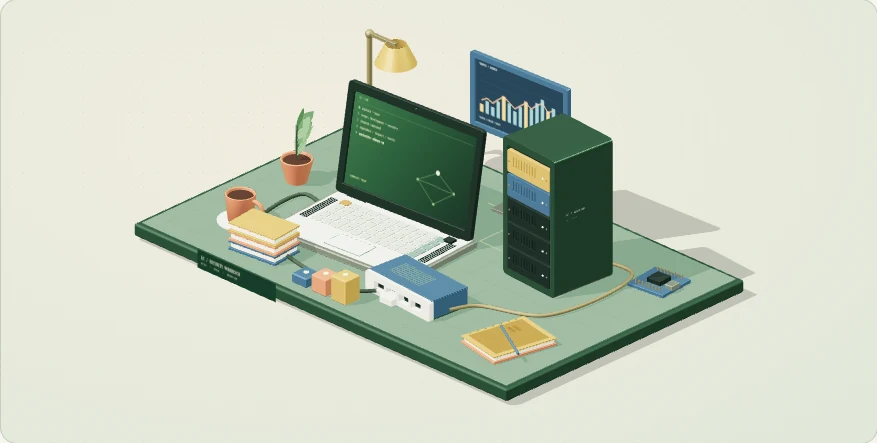
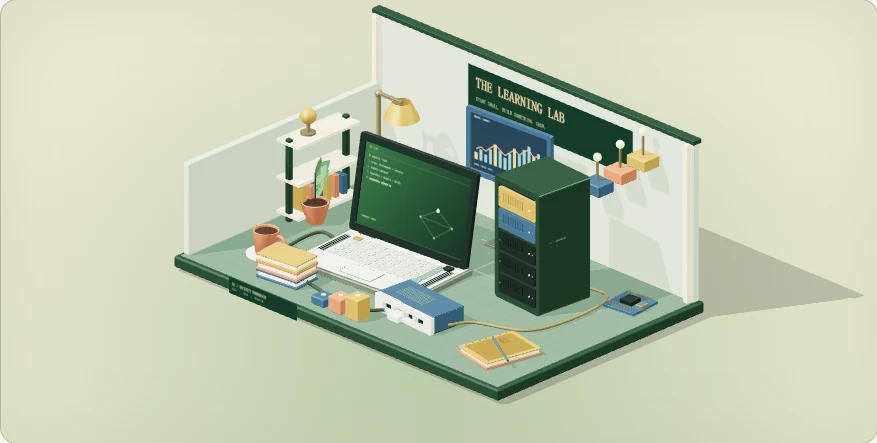
Rebuild the homepage as a miniature learning studio with illustrated chapter portals

diff --git a/index.html b/index.html
@@ -13,8 +13,8 @@
   <script src="roadmap-data.js" defer></script>
   <script src="learning-xp.js" defer></script>
   <link rel="stylesheet" href="motion.css?v=pointer2">
-  <link rel="stylesheet" href="home-3d.css?v=labboard5">
-  <script src="home-3d.js?v=labboard5" defer></script>
+  <link rel="stylesheet" href="home-3d.css?v=studio6">
+  <script src="home-3d.js?v=studio6" defer></script>
 </head>
 <body class="motion-site page-home">
   <a class="skip" href="#main">跳到正文</a>
@@ -36,43 +36,16 @@
         <div class="tool-ribbon" aria-label="探索方向"><span><b>&lt;/&gt;</b> CODE</span><span><b>⌘</b> SECURITY</span><span><b>✳</b> AI</span></div>
       </div>
       <div class="lab-exhibit" id="lab-exhibit">
-        <div class="scene-blueprint" aria-hidden="true"><svg viewBox="0 0 900 500" preserveAspectRatio="xMidYMid slice"><defs><pattern id="draft-grid" width="32" height="32" patternUnits="userSpaceOnUse"><path d="M32 0H0V32" fill="none" stroke="#6e8765" stroke-opacity=".15"/></pattern></defs><rect width="900" height="500" fill="url(#draft-grid)"/><circle cx="470" cy="270" r="205" fill="none" stroke="#718963" stroke-opacity=".22"/><circle cx="470" cy="270" r="234" fill="none" stroke="#718963" stroke-opacity=".18" stroke-dasharray="3 9"/><path d="M46 360V116Q46 72 90 72H260M673 70h140v262M647 444H200" fill="none" stroke="#69816c" stroke-opacity=".35"/><g fill="#a47b45"><circle cx="46" cy="360" r="5"/><circle cx="260" cy="72" r="5"/><circle cx="813" cy="332" r="5"/></g><g font-family="monospace" font-size="10" fill="#627258"><text x="65" y="105">01 / START SMALL</text><text x="683" y="97">02 / KEEP BUILDING</text><text x="650" y="438">03 / LEVEL UP</text></g><path d="M15 22h16m-8-8v16M866 470h16m-8-8v16" stroke="#8b9c77"/></svg></div>
-        <div class="exhibit-top"><span>THE WORKBENCH</span><span><i></i> 实验中</span></div>
+        <div class="exhibit-top"><span>MY LITTLE LEARNING WORLD</span><span><i></i> 实验中</span></div>
         <div class="lab-viewport" id="lab-viewport" tabindex="0" role="img" aria-label="可旋转的三维安全实验台，包含双屏电脑、服务器、网络设备、台灯和桌面物件。用鼠标拖动或方向键旋转，按 R 复位。下方有等效栏目链接。">
-          <img class="lab-poster" src="assets/lab-poster.webp?v=labboard5" width="1000" height="820" alt="包含双屏电脑、服务器、网络设备、台灯、绿植、笔记本和咖啡杯的彩色安全实验台">
+          <img class="lab-poster" src="assets/lab-poster.webp?v=studio6" width="1000" height="820" alt="包含双屏电脑、服务器、网络设备、台灯、绿植、笔记本和咖啡杯的彩色安全实验台">
           <canvas id="lab-canvas" aria-hidden="true"></canvas>
           <span id="lab-tooltip" class="lab-tooltip" hidden></span>
         </div>
         <div class="exhibit-bottom"><span id="lab-scene-status" role="status">正在布置实验台…</span><button type="button" id="lab-reset" aria-label="复位三维视角" hidden><svg viewBox="0 0 20 20" fill="none" stroke="currentColor" stroke-width="1.4" aria-hidden="true"><path d="M4 7a6 6 0 1 1 0 6M4 3v4h4"/></svg>复位视角</button></div>
       </div>
     </section>
-    <nav class="explore-grid" aria-label="站点入口">
-      <a class="explore-card card-skills" href="skills.html">
-        <span class="card-topline"><span>01 / 学习装备</span><span class="card-arrow" aria-hidden="true">↗</span></span>
-        <svg class="card-art art-skills" viewBox="0 0 150 100" fill="none" aria-hidden="true">
-          <path d="m72 13 36 21v41L72 96 36 75V34z" fill="#b9cdaa" stroke="#43694a"/><path d="m36 34 36 21 36-21M72 55v41" stroke="#43694a"/><path d="m72 13 36 21-36 21-36-21z" fill="#d9e5c8" stroke="#43694a"/><path d="m57 58-10 5 10 6m30-11 10 5-10 6" stroke="#43694a" stroke-width="2"/><path d="M17 26h15m80 49h20M20 78h8" stroke="#95ad83"/><circle cx="123" cy="24" r="9" fill="#d2b879"/><circle cx="22" cy="56" r="4" fill="#6e8d72"/>
-        </svg>
-        <span class="card-watermark" aria-hidden="true">01</span><span class="card-copy"><strong>技能地图</strong><span class="card-tagline">从看懂一个概念，到亲手实现。</span><span class="card-detail">17 项技能 · 开发 / 攻防 / AI</span><span class="card-stages"><i>认识</i><i>理解</i><i>实践 ↗</i></span></span>
-      </a>
-      <a class="explore-card card-route" href="roadmap.html">
-        <span class="card-topline"><span>02 / 成长旅程</span><span class="card-arrow" aria-hidden="true">↗</span></span>
-        <svg class="card-art art-route" viewBox="0 0 150 100" fill="none" aria-hidden="true">
-          <path d="m25 68 29-17 27 16 43-26" stroke="#629088" stroke-width="12" stroke-linejoin="round"/><path d="m25 65 29-17 27 16 43-26" stroke="#e1f0e4" stroke-width="3" stroke-dasharray="4 5"/><path d="m35 32 22-13 23 13v24L57 69 35 56z" fill="#a9cfc2" stroke="#497a71"/><path d="m35 32 22 13 23-13M57 45v24" stroke="#497a71"/><path d="M111 16v25" stroke="#386b62" stroke-width="2"/><path d="m111 16 17 5-17 7" fill="#d0a061" stroke="#a9824c"/><circle cx="24" cy="66" r="7" fill="#4f8171"/><circle cx="124" cy="40" r="5" fill="#c2b577"/>
-        </svg>
-        <span class="card-watermark" aria-hidden="true">02</span><span class="card-copy"><strong>学习路线</strong><span class="card-tagline">今天学一点，明天再进一步。</span><span class="card-detail">28 站主线 + 10 条支线</span></span>
-        <span class="xp-meter xp-compact card-xp" data-learning-xp data-xp-autoload>
-          <span class="xp-top"><strong data-xp-level>Lv. 1 安全小白</strong><span data-xp-value>0 / 20 XP</span></span>
-          <progress data-xp-bar value="0" max="20" aria-label="当前等级经验"></progress>
-        </span>
-      </a>
-      <a class="explore-card card-questions" href="questions.html">
-        <span class="card-topline"><span>03 / 实践关卡</span><span class="card-arrow" aria-hidden="true">↗</span></span>
-        <svg class="card-art art-questions" viewBox="0 0 150 100" fill="none" aria-hidden="true">
-          <path d="m39 31 57-15 18 62-57 15z" fill="#dcbaa4" stroke="#946c58"/><path d="m32 23 58-8 9 66-58 8z" fill="#f4e7ce" stroke="#a57b60"/><path d="m45 39 9 7 13-17m-18 29 9 7 13-17" stroke="#8a7054" stroke-width="2"/><path d="m75 33 11-2M77 51l11-2" stroke="#a58a6d"/><path d="m102 29 8-3 20 52-8 3z" fill="#6d8f96" stroke="#4b6d76"/><path d="m122 81 6 7 2-10" fill="#d7bba0"/><circle cx="23" cy="68" r="8" fill="#b9c7ad"/>
-        </svg>
-        <span class="card-watermark" aria-hidden="true">03</span><span class="card-copy"><strong>题库</strong><span class="card-tagline">试一试，让“懂了”变成“会了”。</span><span class="card-detail">34 道练习 · 基础 → 进阶 → 挑战</span><span class="card-stages"><i>入门</i><i>进阶</i><i>挑战 ↗</i></span></span>
-      </a>
-    </nav>
+    <nav class="explore-grid chapter-grid" aria-label="成长入口"><a class="explore-card card-skills chapter-card" href="skills.html"><span class="chapter-kicker">CHAPTER 01 / 收集你的学习装备</span><span class="card-copy"><strong>技能地图</strong><span class="card-tagline">从第一个概念，到独立搭建。</span><span class="card-detail">17 项技能 / 开发 · 安全 · AI</span></span><svg class="chapter-visual" viewBox="0 0 220 180" fill="none" aria-hidden="true"><circle cx="130" cy="100" r="76" fill="#bed29d"/><path d="m40 127 102-38 70 40-102 40z" fill="#6d9277"/><path d="M64 38h113v81H64z" fill="#efdfb4"/><path d="M72 47h97v63H72z" fill="#163e34"/><path d="m87 66-10 9 10 9m29-18 10 9-10 9m-16-20-8 23" stroke="#b9d68e" stroke-width="4"/><path d="m64 119-21 23h142l-8-23" fill="#d4caad"/><path d="M130 94h64v49h-64z" fill="#c48b4d"/><path d="M137 106h48m-48 10h33m-33 11h40" stroke="#f4ddab" stroke-width="3"/><circle cx="181" cy="38" r="16" fill="#e5ac67"/><path d="m174 38 5 5 9-10" stroke="#233f32" stroke-width="3"/></svg><span class="chapter-action">打开装备库 <b>↗</b></span></a><a class="explore-card card-route chapter-card" href="roadmap.html"><span class="chapter-kicker">CHAPTER 02 / 把每一步变成经验</span><span class="card-copy"><strong>学习路线</strong><span class="card-tagline">点亮任务，解锁下一段成长。</span><span class="card-detail">38 个站点 / 一点点升级</span></span><svg class="chapter-visual" viewBox="0 0 220 180" fill="none" aria-hidden="true"><circle cx="135" cy="92" r="76" fill="#e8d4a6"/><path d="m37 143 42-22 30 16 35-30 32 13 30-31" stroke="#967451" stroke-width="15"/><path d="m37 140 42-22 30 16 35-30 32 13 30-31" stroke="#f6ecd2" stroke-width="3" stroke-dasharray="5 6"/><path d="m70 99 29-16 29 16v33l-29 17-29-17z" fill="#58816c"/><path d="m100 72 29-16 29 16v44l-29 17-29-17z" fill="#80a58a"/><path d="m130 44 29-16 29 16v56l-29 17-29-17z" fill="#bed0a8"/><path d="M160 24V5m0 0 28 8-28 10" stroke="#395b48" stroke-width="3" fill="#ba7148"/><path d="m145 47 13 8 15-8" stroke="#f6f2db" stroke-width="3"/></svg><span class="xp-meter xp-compact card-xp" data-learning-xp data-xp-autoload><span class="xp-top"><strong data-xp-level>Lv. 1 安全小白</strong><span data-xp-value>0 / 20 XP</span></span><progress data-xp-bar value="0" max="20" aria-label="当前等级经验"></progress></span></a><a class="explore-card card-questions chapter-card" href="questions.html"><span class="chapter-kicker">CHAPTER 03 / 去练习，去验证自己</span><span class="card-copy"><strong>题库挑战</strong><span class="card-tagline">从第一道题，走向独立解题。</span><span class="card-detail">34 道练习 / 入门 → 挑战</span></span><svg class="chapter-visual" viewBox="0 0 220 180" fill="none" aria-hidden="true"><circle cx="130" cy="92" r="76" fill="#c8d1b3"/><path d="m57 40 75-16 61 26-12 66-49 45-57-27z" fill="#315947"/><path d="m72 50 60-13 46 20-10 51-36 34-43-22z" fill="#d7e0c0"/><circle cx="132" cy="86" r="28" stroke="#688c6e" stroke-width="3"/><circle cx="132" cy="86" r="14" stroke="#688c6e" stroke-width="3"/><path d="m132 86 53-44m-4 2 3-19 8 11 15 4-21 9" stroke="#ae744a" stroke-width="5"/><rect x="38" y="118" width="84" height="38" rx="5" fill="#d5a25f"/><path d="m52 136 8 7 14-15m8 7h25" stroke="#4a4d32" stroke-width="3"/></svg><span class="chapter-action">开始一次挑战 <b>↗</b></span></a></nav>
   </main>
   <footer class="footer wrap"><span>© 2026 辣白菜</span><span>保持好奇，慢慢升级。</span></footer>
 </body>

diff --git a/home-3d.css b/home-3d.css
@@ -181,3 +181,16 @@ body.page-home{
 @media(prefers-reduced-motion:reduce){.scene-blueprint svg{transition:none;transform:none!important}}
 
 @media(max-width:640px){.card-topline>span:first-child{white-space:nowrap;font-size:7px}.card-arrow{width:18px;height:18px;font-size:11px;flex-shrink:0}.scene-blueprint svg{opacity:.55}}
+
+/* Complete chapter portal redesign. */
+.lab-exhibit{background:radial-gradient(ellipse at 50% 80%,#b8caa5,#ece8d2 80%);box-shadow:inset 0 0 80px #8da17d33}.lab-exhibit:after{display:none}
+.chapter-grid{gap:14px}.chapter-card{display:flex;flex-direction:column;justify-content:center;border-radius:18px;padding:17px 20px;border:0;box-shadow:none;gap:9px;background:#284d3b;color:#f0edd8;min-width:0}
+.chapter-card.card-route{background:#c09a63;color:#2f3829}.chapter-card.card-questions{background:#dfe5cf;color:#284433}
+.chapter-kicker{font:9px/1.4 var(--mono);letter-spacing:.08em;position:relative;z-index:2;opacity:.8}
+.chapter-card .card-copy{max-width:61%;padding:0;gap:5px;justify-content:center;z-index:2}.chapter-card .card-copy>strong{font:750 32px/1.25 var(--display);color:inherit;letter-spacing:-.03em}.chapter-card .card-tagline{color:inherit;font-size:11px}.chapter-card .card-detail{color:inherit;font-size:10px;opacity:.75}
+.chapter-visual{position:absolute;right:-7px;top:12px;width:44%;height:calc(100% - 15px);z-index:1;transition:transform .4s cubic-bezier(.2,.8,.2,1);pointer-events:none;filter:drop-shadow(0 8px 8px #173d2820)}.chapter-card:hover .chapter-visual{transform:translateY(-5px) rotate(-5deg) scale(1.06)}
+.chapter-action{font-size:11px;display:flex;align-items:center;justify-content:space-between;width:57%;padding-top:9px;border-top:1px solid #d8e0c14a;z-index:2}.chapter-action b{font-size:18px}.card-questions .chapter-action{border-color:#8d9f7b70}.chapter-card .card-xp{left:20px;right:20px;bottom:14px;border-color:#69755170;color:#2e422e;background:none;z-index:2}.chapter-card.card-route{padding-bottom:44px}.chapter-card:hover{box-shadow:0 8px 22px #24443222}
+@media(max-width:980px),(max-height:740px){.chapter-card{padding:13px 15px;gap:6px;border-radius:13px}.chapter-card .card-copy>strong{font-size:25px}.chapter-kicker{font-size:8px}.chapter-card .card-tagline{font-size:10px}.chapter-card .card-detail{font-size:9px}.chapter-action{font-size:10px;padding-top:5px}.chapter-card.card-route{padding-bottom:36px}.chapter-card .card-xp{left:15px;right:15px;bottom:9px}.chapter-visual{width:43%;right:-8px}}
+@media(max-width:640px){.chapter-grid{gap:7px}.chapter-card{justify-content:flex-end;padding:8px;gap:3px;border-radius:12px}.chapter-kicker{font-size:6px;letter-spacing:0;position:absolute;left:8px;top:9px;max-width:80%}.chapter-visual{width:100%;height:75px;top:17px;right:-7px}.chapter-card .card-copy{max-width:100%;gap:2px;padding:0}.chapter-card .card-copy>strong{font-size:18px}.chapter-card .card-tagline,.chapter-card .card-detail,.chapter-action{display:none}.chapter-card.card-route{padding-bottom:29px}.chapter-card .card-xp{left:8px;right:8px;bottom:7px;padding-top:3px}.chapter-card .card-xp .xp-top>strong{font-size:8px}.chapter-card .card-xp .xp-top>span{display:none}}
+@media(max-height:450px) and (min-width:641px){.chapter-card{padding:9px 13px;gap:3px}.chapter-card .card-copy>strong{font-size:21px}.chapter-card .card-detail,.chapter-card .card-tagline,.chapter-action{display:none}.chapter-visual{top:0;height:100%}.chapter-card.card-route{padding-bottom:29px}.chapter-card .card-xp{bottom:6px}.chapter-kicker{font-size:7px}}
+@media(prefers-reduced-motion:reduce){.chapter-visual{transition:none;transform:none!important}}

diff --git a/lab-model.js b/lab-model.js
@@ -7,7 +7,7 @@ export const labContract = Object.freeze({
   laptop: {width:2.55, depth:1.62, foot:.18, hingeHeight:.30},
   server: {width:1.1, height:2.18, depth:1.08, foot:.18},
   router: {width:1.38, depth:.78, height:.31, foot:.18},
-  budgets: {triangles:150000, calls:165}
+  budgets: {triangles:150000, calls:210}
 });
 
 export function buildLab() {
@@ -252,6 +252,32 @@ export function buildLab() {
   box(.30,h,.30,[materials.blue,materials.clay,materials.ochre][i],root,'Growth step '+(i+1),x,.20+h/2,2.02,.025);
   cylinder(.04,.012,materials.led,root,'Milestone indicator',x,.208+h,2.02);
  }
+ // An architectural cutaway: real walls, a library and a climbing route.
+ const wallMat=new T.MeshStandardMaterial({color:0xbccbb1,roughness:.94});
+ const trimMat=new T.MeshStandardMaterial({color:0xf0dfb5,roughness:.72});
+ box(7.3,2.85,.13,wallMat,root,'Back wall of learning studio',0,1.62,-2.27,.035);
+ box(.13,1.65,4.5,wallMat,root,'Cutaway side wall',-3.56,1.02,0,.035);
+ box(7.35,.08,.18,materials.enamel,root,'Wall cap',0,3.08,-2.27,.025);
+ const sign=texture(1024,224,(c,w,h)=>{c.fillStyle='#294837';c.fillRect(0,0,w,h);c.fillStyle='#e7d5a0';c.font='bold 67px monospace';c.fillText('THE LEARNING LAB',45,100);c.font='25px monospace';c.fillStyle='#afc5a2';c.fillText('START SMALL. BUILD SOMETHING. GROW.',47,165);});
+ mesh(new T.PlaneGeometry(3.75,.82),new T.MeshBasicMaterial({map:sign}),root,'Learning lab wall sign',.4,2.43,-2.185).castShadow=false;
+ // Open shelves with colorful volumes and a physical achievement cup.
+ const shelf=new T.Group();shelf.name='Open library shelves';shelf.position.set(-3.26,.2,-.50);root.add(shelf);
+ for(const z of [-.66,.66])box(.10,1.48,.09,materials.enamel,shelf,'Shelf side upright',0,.74,z);
+ for(const y of [.12,.73,1.4])box(.55,.065,1.43,trimMat,shelf,'Open shelf',0,y,0);
+ for(let i=0;i<6;i++)box(.32,.34+(i%3)*.06,.10,[materials.blue,materials.clay,materials.ochre][i%3],shelf,'Library volume',0,.33+(i%3)*.03,-.49+i*.19,.012);
+ cylinder(.13,.03,materials.brass,shelf,'Achievement base',0,1.45,.22);
+ cylinder(.035,.18,materials.brass,shelf,'Achievement stem',0,1.55,.22);
+ mesh(new T.SphereGeometry(.14,16,10),materials.ochre,shelf,'Achievement sphere',0,1.75,.22);
+ // A wall-mounted three-step path, connected by brass rails.
+ for(let i=0;i<3;i++){
+  const x=1.65+i*.52,y=1.72+i*.40;
+  box(.42,.20,.36,[materials.blue,materials.clay,materials.ochre][i],root,'Wall growth step '+i,x,y,-2.00,.025);
+  box(.035,.38,.035,materials.brass,root,'Step marker '+i,x,y+.29,-2.00,.008);
+  mesh(new T.SphereGeometry(.075,12,8),materials.led,root,'Step light '+i,x,y+.52,-2.00);
+ }
+ // Warm framing strips make the room read as a miniature, not a flat board.
+ box(.10,2.85,.12,trimMat,root,'Left wall trim',-3.55,1.62,-2.16);
+ box(.10,2.85,.12,trimMat,root,'Right wall trim',3.55,1.62,-2.16);
  for(const target of targets){
   const highlight=new T.PointLight(0xc7ed9a,0,2.7,2);highlight.name='Hover accent';highlight.position.set(0,.9,1.4);target.add(highlight);target.userData.light=highlight;
  }

diff --git a/home-3d.js b/home-3d.js
@@ -32,7 +32,7 @@
    try{
     const [T,{buildLab},{RoomEnvironment}]=await Promise.all([
      import("./vendor/three/three.module.min.js"),
-     import("./lab-model.js?v=growth4"),
+     import("./lab-model.js?v=studio6"),
      import("./vendor/three/RoomEnvironment.js")
     ]);
     if(!alive || reduced.matches)return;
@@ -49,7 +49,7 @@
     scene.environment=envMap.texture;scene.environmentIntensity=.7;
     environment.dispose();pmrem.dispose();
     const camera=new T.OrthographicCamera(-4,4,3.3,-3.3,.1,60);
-    camera.position.set(7.7,7.1,10);camera.lookAt(0,.65,0);
+    camera.position.set(7.7,7.1,10);camera.lookAt(0,1.20,0);
     scene.add(new T.HemisphereLight(0xf9f9e6,0x69795c,2.0));
     const key=new T.DirectionalLight(0xfff5df,3.4);key.position.set(-3.5,7,5);
     key.castShadow=true;key.shadow.mapSize.set(1536,1536);
@@ -84,7 +84,7 @@
       const {width,height}=viewport.getBoundingClientRect();
       if(width===0 || height===0)return;
       const aspect=width/height;
-      const half=Math.max(3.13,5.0/aspect);
+      const half=Math.max(3.60,5.3/aspect);
       camera.left=-half*aspect;camera.right=half*aspect;camera.top=half;camera.bottom=-half;camera.updateProjectionMatrix();
       renderer.setSize(width,height,false);schedule();
     }
